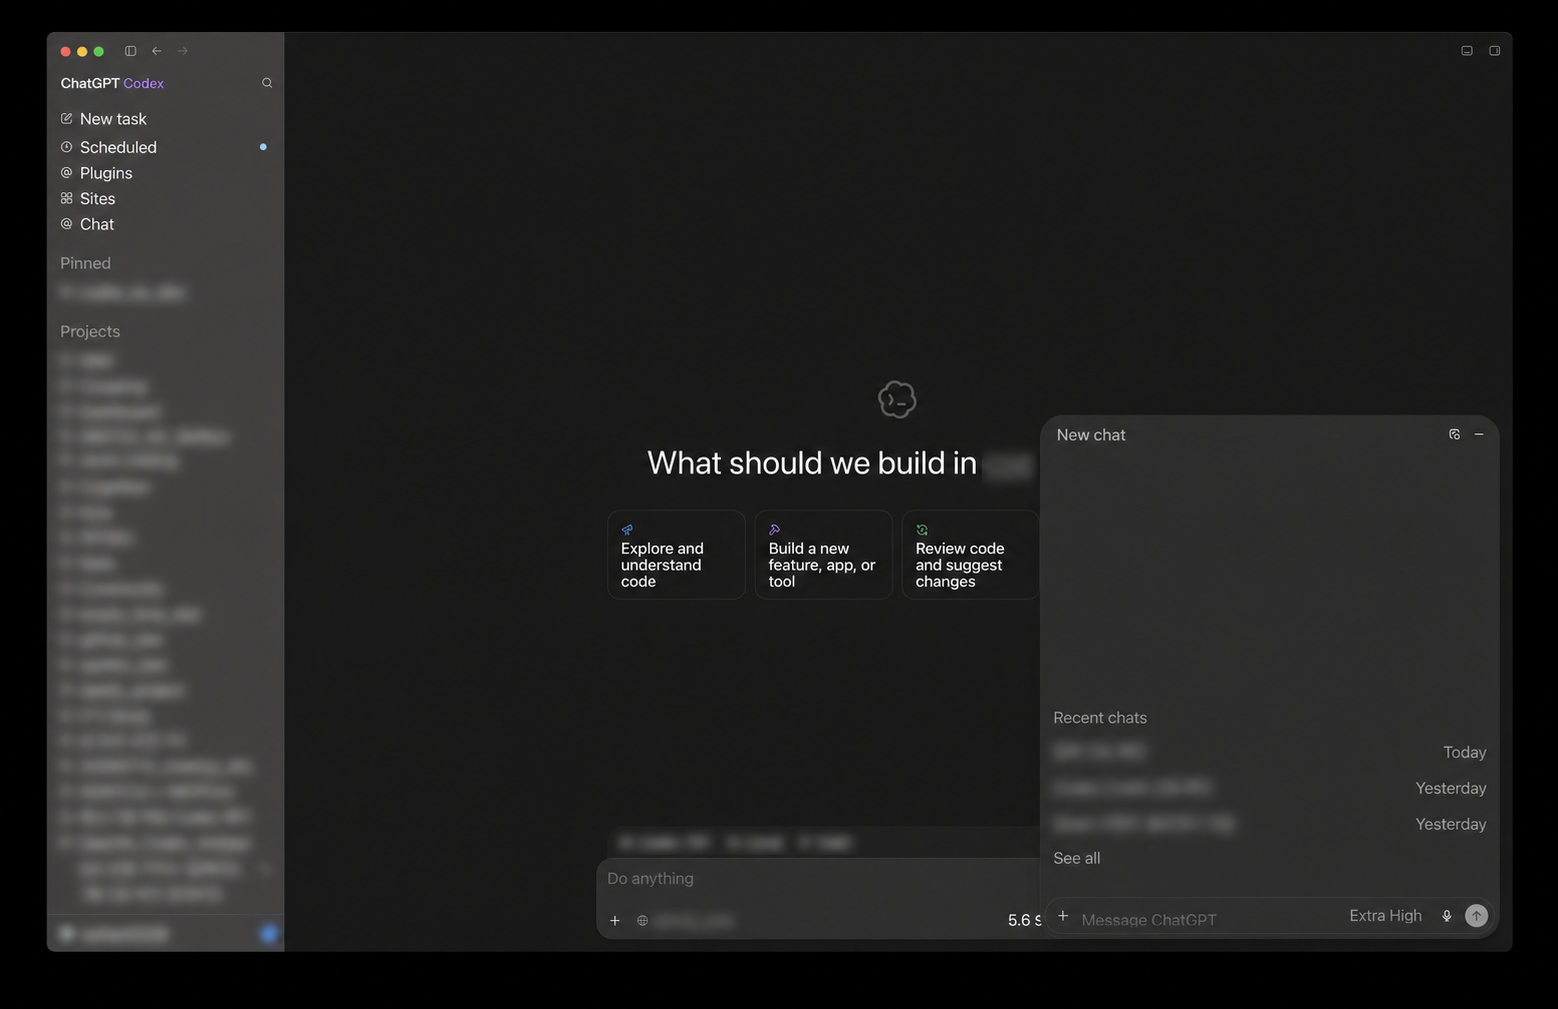
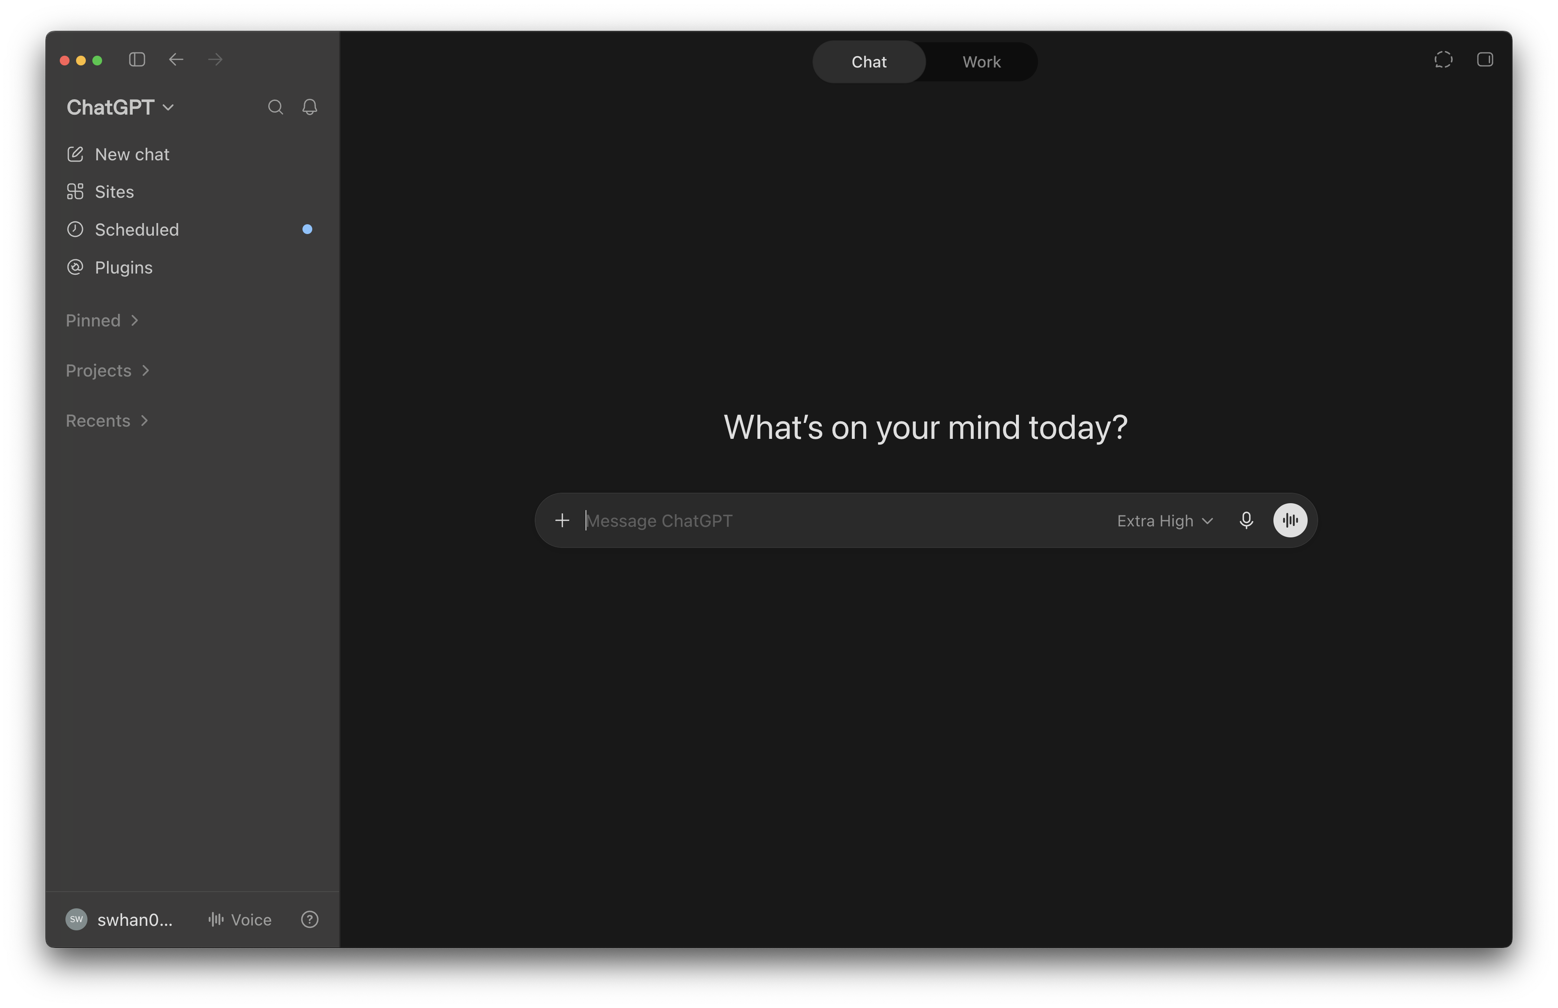
docs: refresh ChatGPT desktop image

diff --git a/i18n.js b/i18n.js
@@ -378,7 +378,7 @@ const translations = {
         s7_pb_plugin_d: "skills, app integrations, MCP server를 묶어 배포하는 단위입니다. 반복 프롬프트가 안정화된 뒤 팀에 공유할 때 plugin으로 올리고, 설치 후에는 작업 설명만 하거나 `@plugin`으로 특정 workflow를 직접 호출하는 방식이 좋습니다. Apple Messages는 Apple Silicon Mac의 ChatGPT desktop app에서 Codex 또는 ChatGPT Work로만 쓸 수 있으므로, 필요한 macOS 권한을 준 뒤 메시지와 수신자를 검토하고 전송을 승인하세요. Full access에서는 전송 확인이 막힐 수 있어 Ask for approval 또는 Approve for me가 필요합니다.",
         img_app: "ChatGPT 데스크톱 앱의 Codex 새 작업 화면 — 프로젝트 선택, 시작 카드, GPT-5.6 Sol Medium (2026년 7월 10일 촬영)",
         img_app_switch: "좌상단 전환 메뉴 — 완성 결과물 중심 Work와 프로젝트·파일 작업 중심 Codex를 같은 앱에서 선택",
-        img_app_chat: "Codex 작업 위 Chat 오버레이 — 프로젝트 작업을 유지한 채 일반 대화를 분리해 시작",
+        img_app_chat: "현재 ChatGPT 데스크톱 앱 — 상단 Chat·Work 전환과 사이드바",
         // Section 7
         s8_title: "Codex IDE Extension",
         s8_intro: "VS Code, Cursor, Windsurf, VS Code Insiders에는 Codex 확장을 설치하고, Xcode와 JetBrains IDE에서는 각 IDE의 자체 통합을 사용하는 AI 코딩 에이전트입니다. ChatGPT 계정 또는 API 키로 로그인할 수 있고 JetBrains는 JetBrains AI 구독도 지원합니다. Windows에서는 네이티브 sandbox를 기본 경로로 두고, Linux-native 도구나 이미 WSL2에 있는 저장소가 중요할 때 WSL2 워크스페이스를 선택하세요.",
@@ -1156,7 +1156,7 @@ const translations = {
         s7_pb_plugin_d: "Plugins are the packaging layer for skills, app integrations, and MCP servers. After a workflow becomes reliable, package it as a plugin for team reuse; after install, either describe the task normally or invoke a specific workflow with `@plugin`. Apple Messages works only in Codex or ChatGPT Work in the Apple Silicon ChatGPT desktop app, so grant the needed macOS permissions, then review the message and recipients before approving a send. Full access can prevent the send confirmation, so use Ask for approval or Approve for me.",
         img_app: "Codex new-task screen in the ChatGPT desktop app — project picker, starter cards, and GPT-5.6 Sol Medium (captured July 10, 2026)",
         img_app_switch: "Top-left workspace switcher — choose Work for finished deliverables or Codex for project and file work",
-        img_app_chat: "Chat overlay above a Codex task — start a separate general conversation without replacing the project task",
+        img_app_chat: "Current ChatGPT desktop app — the Chat/Work switcher and sidebar",
         s8_title: "Codex IDE Extension",
         s8_intro: "Use the Codex extension in VS Code, Cursor, Windsurf, and VS Code Insiders; Xcode and JetBrains IDEs provide their own integrations. Sign in with ChatGPT or an API key, with JetBrains AI also supported in JetBrains. On Windows, use the native sandbox path by default and choose a WSL2 workspace when your repository or toolchain is Linux-native.",
         th_mode: "Permission profile", th_file_access: "File Access", th_edit: "Code Edit", th_exec: "Command Exec",

diff --git a/index.html b/index.html
@@ -768,8 +768,8 @@ codex --cd /path/to/project
                         <figcaption data-i18n="img_app_switch">좌상단 전환 메뉴 — 완성 결과물 중심 Work와 프로젝트·파일 작업 중심 Codex를 같은 앱에서 선택</figcaption>
                     </figure>
                     <figure class="screenshot app-ui-detail-card">
-                        <img src="images/codex_chat_overlay.png" alt="Chat overlay opened above a Codex task in the ChatGPT desktop app" loading="lazy" />
-                        <figcaption data-i18n="img_app_chat">Codex 작업 위 Chat 오버레이 — 프로젝트 작업을 유지한 채 일반 대화를 분리해 시작</figcaption>
+                        <img src="images/codex_chat_overlay.png" alt="ChatGPT desktop app showing the Chat and Work switcher with the sidebar" loading="lazy" />
+                        <figcaption data-i18n="img_app_chat">현재 ChatGPT 데스크톱 앱 — 상단 Chat·Work 전환과 사이드바</figcaption>
                     </figure>
                 </div>
                 <p data-i18n="s7_intro">2026년 7월 9일부터 Codex는 ChatGPT 데스크톱 앱 안의 전용 공간으로 제공되며, 현재 표면은 macOS, Windows, Linux preview로 나뉩니다. 좌상단에서 Work와 Codex를 전환하고, Codex의 `New task`에서는 프로젝트를 고른 뒤 모델과 reasoning effort를 확인해 작업을 시작합니다. Codex 공간은 여러 프로젝트의 병렬 agent task, built-in Git, integrated terminal, artifact preview, in-app browser, Browser use, Computer Use, image generation, memories, scheduled tasks를 한곳에서 다루는 데 가장 적합합니다. 단, Computer Use는 아직 Linux preview에서 지원되지 않습니다.</p>
